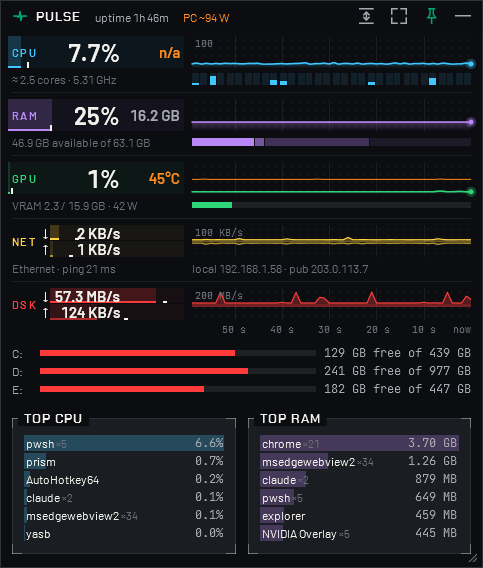
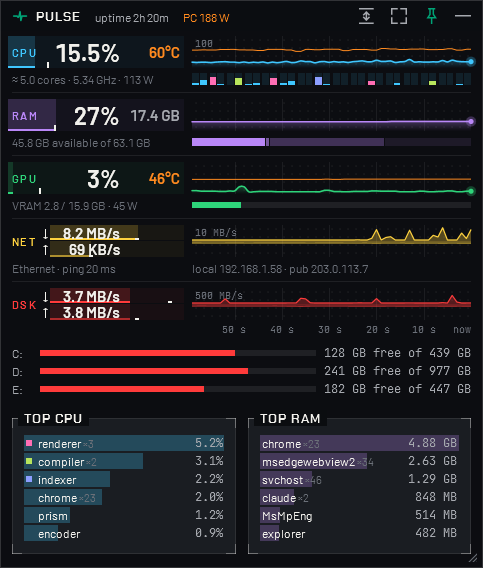
README: the dark screenshot from an elevated run
Taken from the Release build with a separate identity, started as
administrator next to the installed Pulse: CPU temperature and power,
the temperature line in the CPU graph, and the core bars in the colours
of three programs of Top CPU, two of them made of several processes.
The same run checked the core sampling by program: its kernel session
opened while there were programs to colour and closed by itself when
they stopped, and the system's profiling interval went back to its
value.

diff --git a/README.md b/README.md
@@ -11,7 +11,7 @@ small window that starts with Windows: it shows CPU per core, RAM, GPU, network 
 last minute, and uses about 2% of one core.
 
 <p>
-  <img src="docs/screenshots/dark.webp" width="420" alt="Pulse with the dark theme: CPU with per-core bars, RAM, GPU with its temperature line, network and disk with mirrored graphs, top programs" />
+  <img src="docs/screenshots/dark.webp" width="420" alt="Pulse running as administrator: CPU with temperature, power and per-core bars colored by program, RAM, GPU, network and disk with mirrored graphs, top programs" />
   <img src="docs/screenshots/light.webp" width="420" alt="Pulse with the light theme" />
 </p>
 
